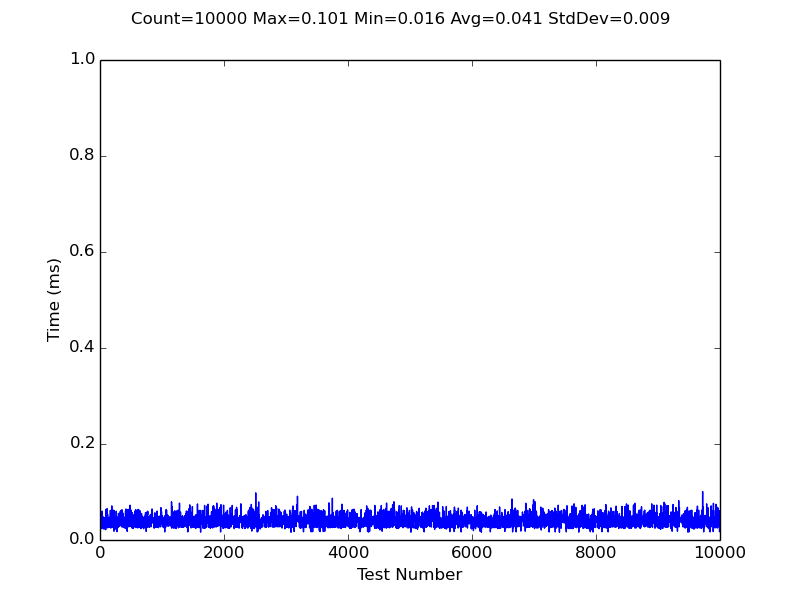
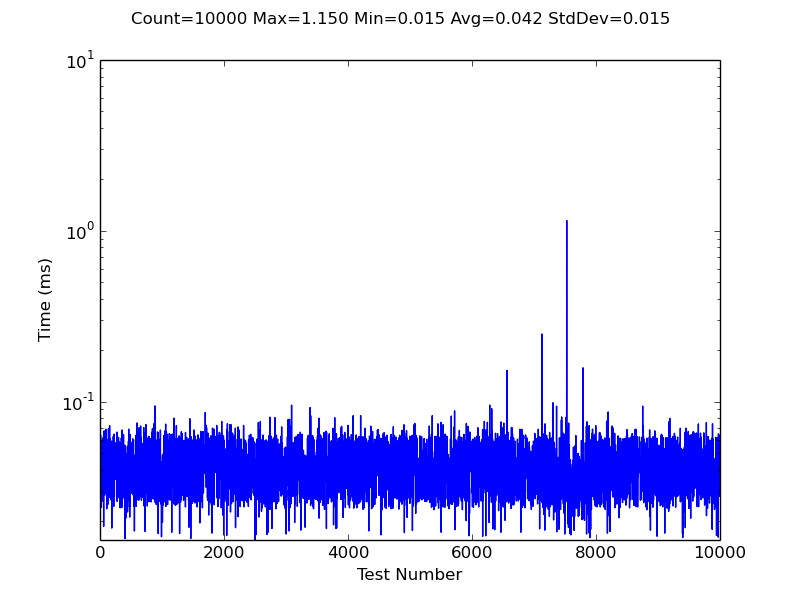
Changed all graphs to a y-semilog scale

diff --git a/src/outputparser.py b/src/outputparser.py
@@ -76,10 +76,10 @@ class Data:
 	
 		fig, ax = plt.subplots( nrows=1, ncols=1 )
 		fig.suptitle( title )
-		ax.set_ylim( 0, 1 )
 		ax.set_ylabel( 'Time (ms)' )
 		ax.set_xlabel( 'Test Number' )
-		ax.plot( self.nonZeroData( ) )
+		ax.semilogy( self.nonZeroData( ) )
+		ax.set_ylim( 0, 10 )
 		fig.savefig( self.graphFileName( ) )
 		plt.close( fig )	
 

diff --git a/README.md b/README.md
@@ -25,35 +25,35 @@ For each one, the following information is listed:
 ## Test: Semaphore Unlock
 Time between when one thread posts a semaphore and a waiting thread is running.
 
-|Description|1st Gen Intel Core i7|Raspberry Pi B2|
-|-----------|---------------------|---------------|
+|Description|1st Gen Intel Core i7|
+|-----------|---------------------|
 |C++ - pthread_mutex_fast|![sem_unlock__Intel Core i7 CPU 920 2.67GHz__C++__pthread_mutex_fast](img/sem_unlock__Intel_Core_i7_CPU_920_2.67GHz__CPP__pthread_mutex_fast.png)|
 |C++ - pthread_mutex_recursive|![sem_unlock__Intel Core i7 CPU 920 2.67GHz__C++__pthread_mutex_recursive](img/sem_unlock__Intel_Core_i7_CPU_920_2.67GHz__CPP__pthread_mutex_recursive.png)|
 |C++ - semt|![sem_unlock__Intel Core i7 CPU 920 2.67GHz__C++__semt](img/sem_unlock__Intel_Core_i7_CPU_920_2.67GHz__CPP__semt.png)|
 |C - pthread_mutex_fast|![sem_unlock__Intel Core i7 CPU 920 2.67GHz__C__pthread_mutex_fast](img/sem_unlock__Intel_Core_i7_CPU_920_2.67GHz__C__pthread_mutex_fast.png)|
 |C - pthread_mutex_recursive|![sem_unlock__Intel Core i7 CPU 920 2.67GHz__C__pthread_mutex_recursive](img/sem_unlock__Intel_Core_i7_CPU_920_2.67GHz__C__pthread_mutex_recursive.png)|
-|C - semt|![sem_unlock__ARMv6-compatible processor rev 7 v6l__C__semt](img/sem_unlock__ARMv6-compatible_processor_rev_7_v6l__C__semt.png)|![sem_unlock__Intel Core i7 CPU 920 2.67GHz__C__semt](img/sem_unlock__Intel_Core_i7_CPU_920_2.67GHz__C__semt.png)|
+|C - semt|![sem_unlock__Intel Core i7 CPU 920 2.67GHz__C__semt](img/sem_unlock__Intel_Core_i7_CPU_920_2.67GHz__C__semt.png)|
 
 ## Test: Thread Shutdown
 Time between immediately before a thread terminates and when the creator of the thread receives notification that the thread shut down.
 
-|Description|Raspberry Pi B2|1st Gen Intel Core i7|
-|-----------|---------------|---------------------|
-|C++ - boost::thread|![thread_shutdown__ARMv6-compatible processor rev 7 v6l__C++__boost::thread](img/thread_shutdown__ARMv6-compatible_processor_rev_7_v6l__CPP__boostthread.png)|![thread_shutdown__Intel Core i7 CPU 920 2.67GHz__C++__boost::thread](img/thread_shutdown__Intel_Core_i7_CPU_920_2.67GHz__CPP__boostthread.png)|
-|C++ - pthread|![thread_shutdown__ARMv6-compatible processor rev 7 v6l__C++__pthread](img/thread_shutdown__ARMv6-compatible_processor_rev_7_v6l__CPP__pthread.png)|![thread_shutdown__Intel Core i7 CPU 920 2.67GHz__C++__pthread](img/thread_shutdown__Intel_Core_i7_CPU_920_2.67GHz__CPP__pthread.png)|
-|C++ - std::async|![thread_shutdown__ARMv6-compatible processor rev 7 v6l__C++__std::async](img/thread_shutdown__ARMv6-compatible_processor_rev_7_v6l__CPP__stdasync.png)|![thread_shutdown__Intel Core i7 CPU 920 2.67GHz__C++__std::async](img/thread_shutdown__Intel_Core_i7_CPU_920_2.67GHz__CPP__stdasync.png)|
-|C++ - std::thread|![thread_shutdown__ARMv6-compatible processor rev 7 v6l__C++__std::thread](img/thread_shutdown__ARMv6-compatible_processor_rev_7_v6l__CPP__stdthread.png)|![thread_shutdown__Intel Core i7 CPU 920 2.67GHz__C++__std::thread](img/thread_shutdown__Intel_Core_i7_CPU_920_2.67GHz__CPP__stdthread.png)|
-|C - pthread|![thread_shutdown__ARMv6-compatible processor rev 7 v6l__C__pthread](img/thread_shutdown__ARMv6-compatible_processor_rev_7_v6l__C__pthread.png)|![thread_shutdown__Intel Core i7 CPU 920 2.67GHz__C__pthread](img/thread_shutdown__Intel_Core_i7_CPU_920_2.67GHz__C__pthread.png)|
+|Description|1st Gen Intel Core i7|
+|-----------|---------------------|
+|C++ - boost::thread|![thread_shutdown__Intel Core i7 CPU 920 2.67GHz__C++__boost::thread](img/thread_shutdown__Intel_Core_i7_CPU_920_2.67GHz__CPP__boostthread.png)|
+|C++ - pthread|![thread_shutdown__Intel Core i7 CPU 920 2.67GHz__C++__pthread](img/thread_shutdown__Intel_Core_i7_CPU_920_2.67GHz__CPP__pthread.png)|
+|C++ - std::async|![thread_shutdown__Intel Core i7 CPU 920 2.67GHz__C++__std::async](img/thread_shutdown__Intel_Core_i7_CPU_920_2.67GHz__CPP__stdasync.png)|
+|C++ - std::thread|![thread_shutdown__Intel Core i7 CPU 920 2.67GHz__C++__std::thread](img/thread_shutdown__Intel_Core_i7_CPU_920_2.67GHz__CPP__stdthread.png)|
+|C - pthread|![thread_shutdown__Intel Core i7 CPU 920 2.67GHz__C__pthread](img/thread_shutdown__Intel_Core_i7_CPU_920_2.67GHz__C__pthread.png)|
 |python3 - thread|![thread_shutdown__Intel Core i7 CPU 920 2.67GHz__python3__thread](img/thread_shutdown__Intel_Core_i7_CPU_920_2.67GHz__python3__thread.png)|
 
 ## Test: Thread Startup
 Time between immediately before the thread creation function is called and the first execution of that thread.
 
-|Description|Raspberry Pi B2|1st Gen Intel Core i7|
-|-----------|---------------|---------------------|
-|C++ - boost::thread|![thread_start__ARMv6-compatible processor rev 7 v6l__C++__boost::thread](img/thread_start__ARMv6-compatible_processor_rev_7_v6l__CPP__boostthread.png)|![thread_start__Intel Core i7 CPU 920 2.67GHz__C++__boost::thread](img/thread_start__Intel_Core_i7_CPU_920_2.67GHz__CPP__boostthread.png)|
-|C++ - pthread|![thread_start__ARMv6-compatible processor rev 7 v6l__C++__pthread](img/thread_start__ARMv6-compatible_processor_rev_7_v6l__CPP__pthread.png)|![thread_start__Intel Core i7 CPU 920 2.67GHz__C++__pthread](img/thread_start__Intel_Core_i7_CPU_920_2.67GHz__CPP__pthread.png)|
-|C++ - std::async|![thread_start__ARMv6-compatible processor rev 7 v6l__C++__std::async](img/thread_start__ARMv6-compatible_processor_rev_7_v6l__CPP__stdasync.png)|![thread_start__Intel Core i7 CPU 920 2.67GHz__C++__std::async](img/thread_start__Intel_Core_i7_CPU_920_2.67GHz__CPP__stdasync.png)|
-|C++ - std::thread|![thread_start__ARMv6-compatible processor rev 7 v6l__C++__std::thread](img/thread_start__ARMv6-compatible_processor_rev_7_v6l__CPP__stdthread.png)|![thread_start__Intel Core i7 CPU 920 2.67GHz__C++__std::thread](img/thread_start__Intel_Core_i7_CPU_920_2.67GHz__CPP__stdthread.png)|
-|C - pthread|![thread_start__ARMv6-compatible processor rev 7 v6l__C__pthread](img/thread_start__ARMv6-compatible_processor_rev_7_v6l__C__pthread.png)|![thread_start__Intel Core i7 CPU 920 2.67GHz__C__pthread](img/thread_start__Intel_Core_i7_CPU_920_2.67GHz__C__pthread.png)|
+|Description|1st Gen Intel Core i7|
+|-----------|---------------------|
+|C++ - boost::thread|![thread_start__Intel Core i7 CPU 920 2.67GHz__C++__boost::thread](img/thread_start__Intel_Core_i7_CPU_920_2.67GHz__CPP__boostthread.png)|
+|C++ - pthread|![thread_start__Intel Core i7 CPU 920 2.67GHz__C++__pthread](img/thread_start__Intel_Core_i7_CPU_920_2.67GHz__CPP__pthread.png)|
+|C++ - std::async|![thread_start__Intel Core i7 CPU 920 2.67GHz__C++__std::async](img/thread_start__Intel_Core_i7_CPU_920_2.67GHz__CPP__stdasync.png)|
+|C++ - std::thread|![thread_start__Intel Core i7 CPU 920 2.67GHz__C++__std::thread](img/thread_start__Intel_Core_i7_CPU_920_2.67GHz__CPP__stdthread.png)|
+|C - pthread|![thread_start__Intel Core i7 CPU 920 2.67GHz__C__pthread](img/thread_start__Intel_Core_i7_CPU_920_2.67GHz__C__pthread.png)|
 |python3 - thread|![thread_start__Intel Core i7 CPU 920 2.67GHz__python3__thread](img/thread_start__Intel_Core_i7_CPU_920_2.67GHz__python3__thread.png)|
